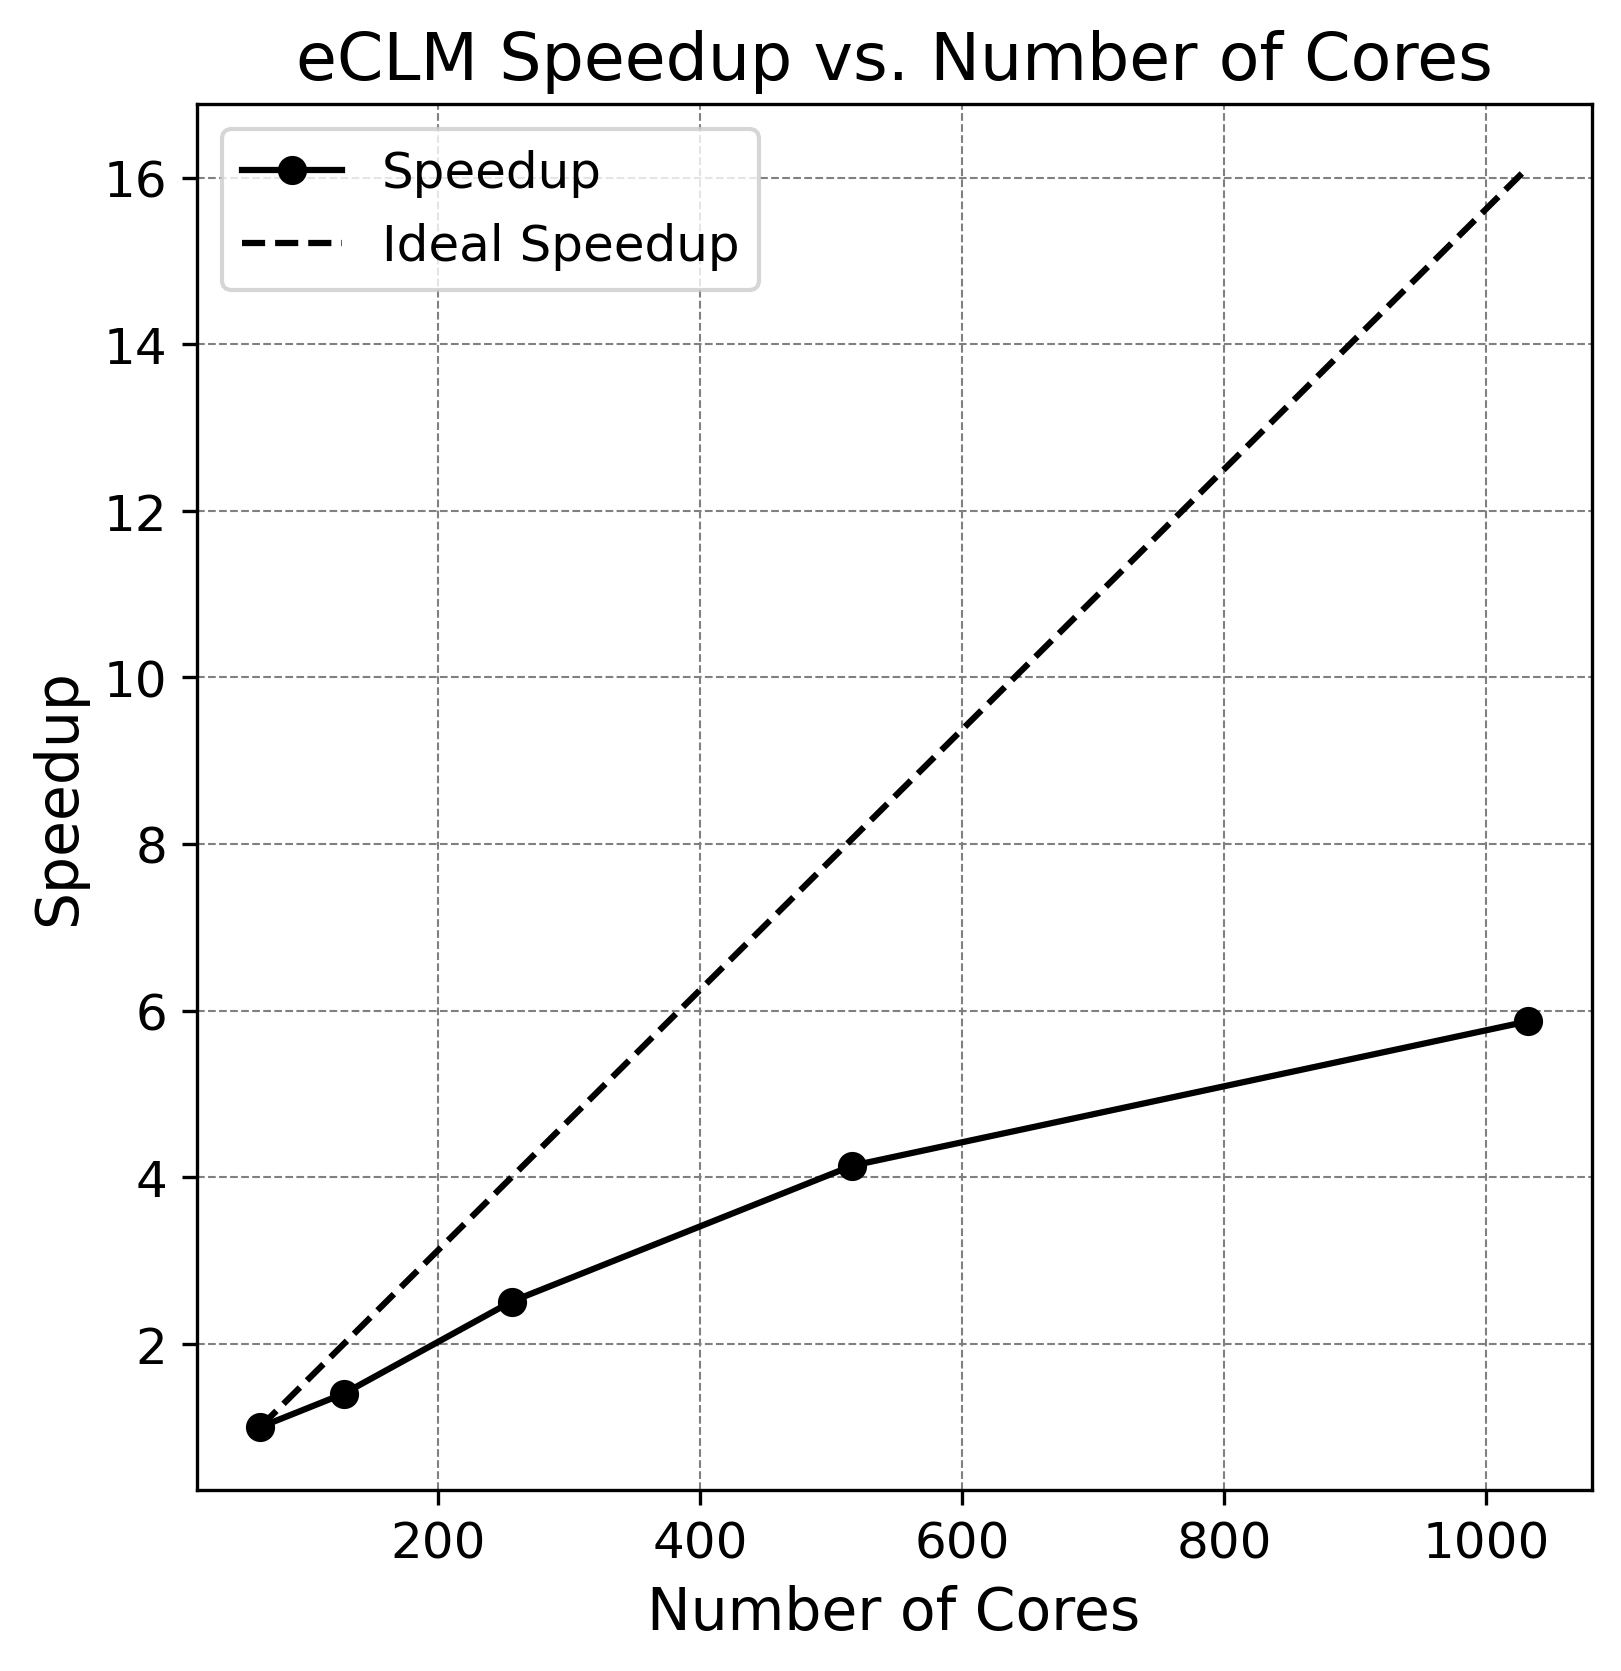
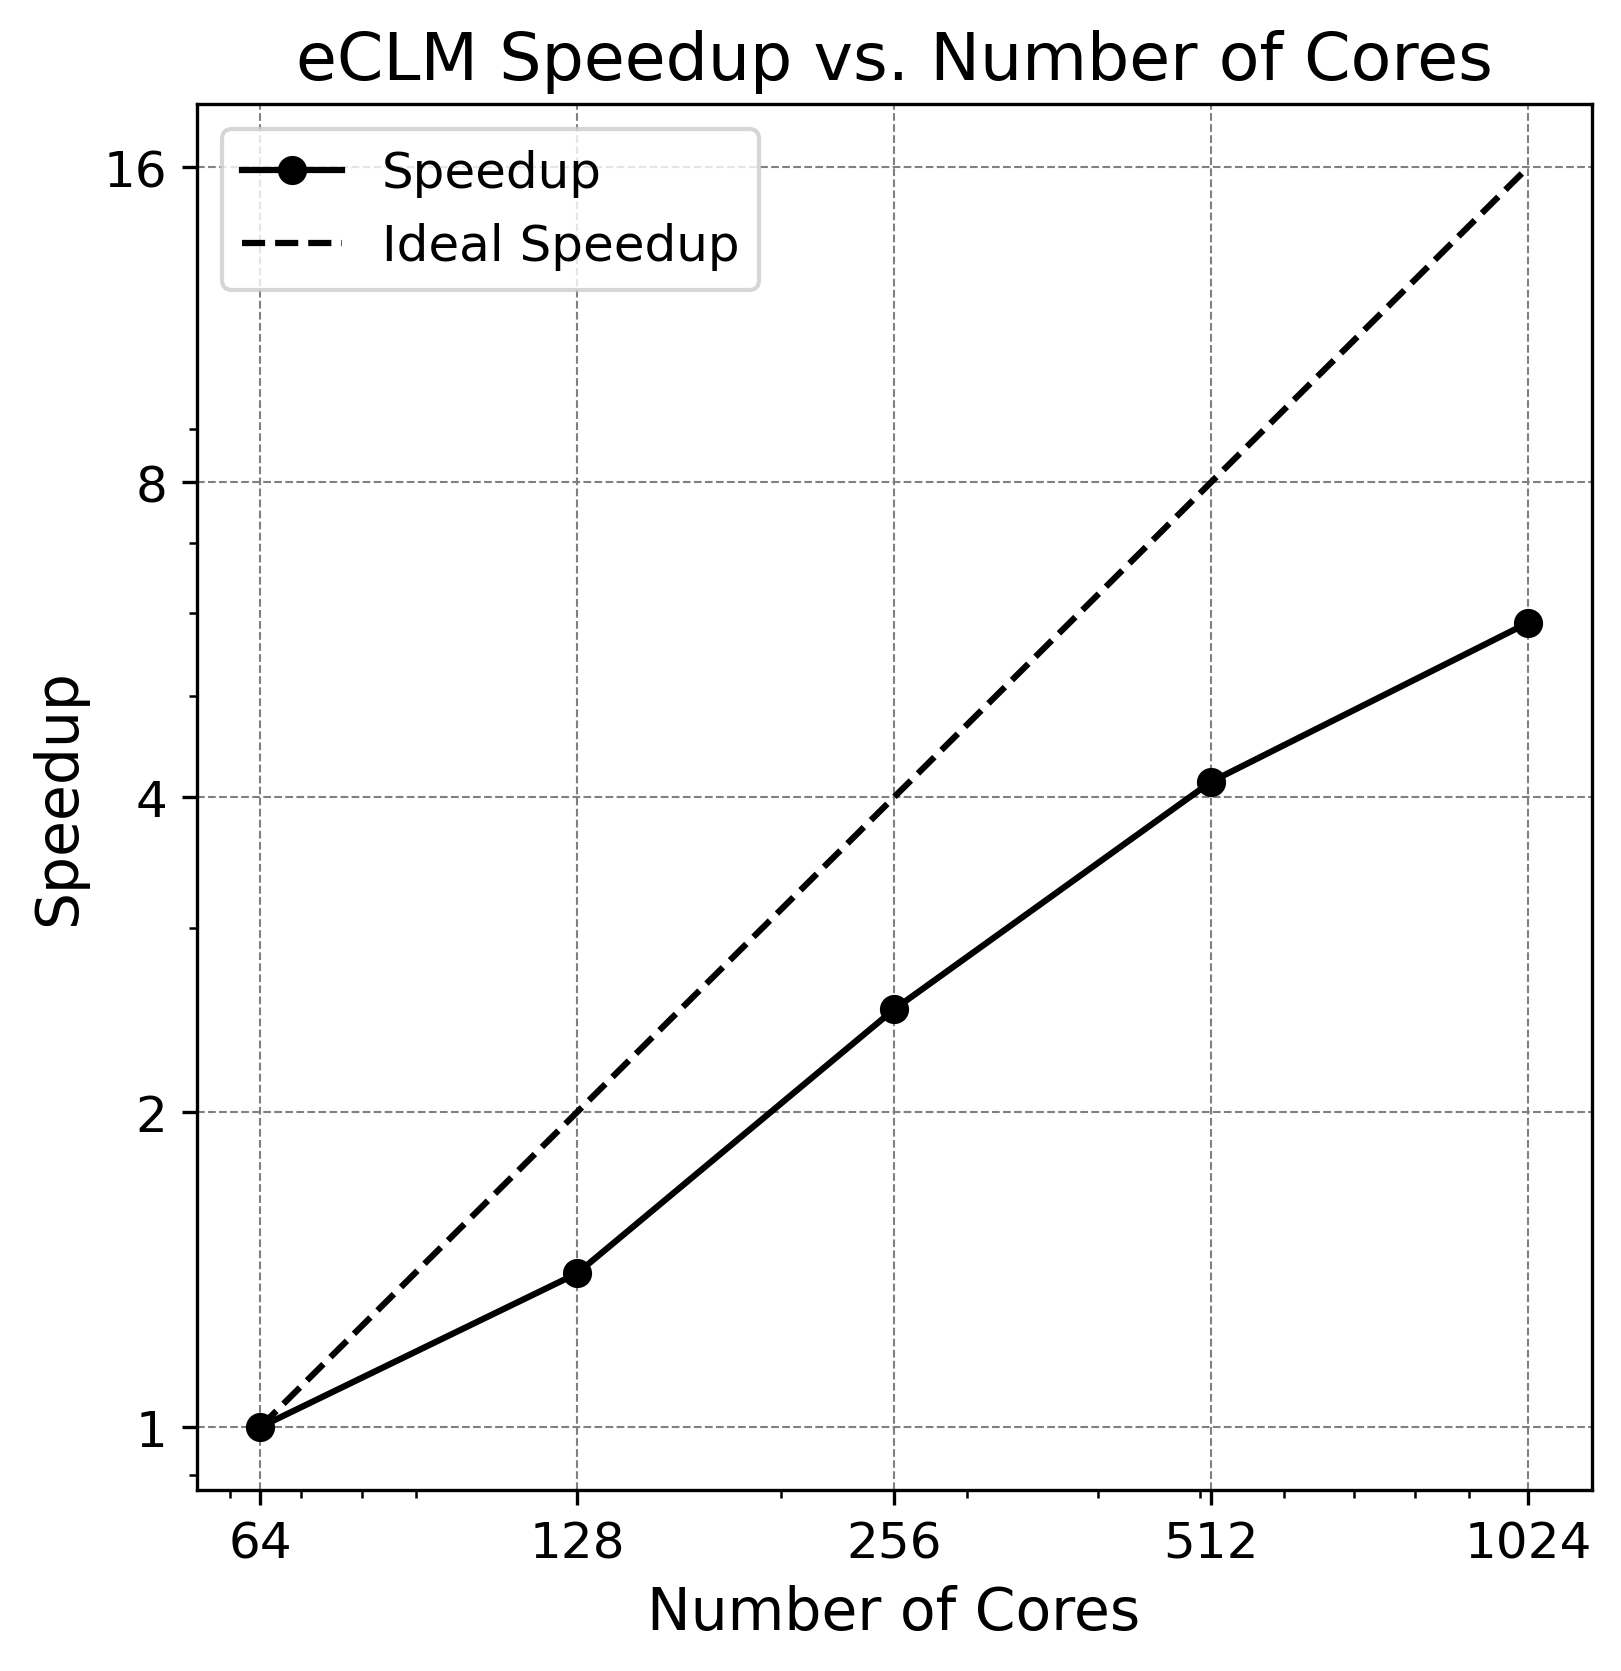
Update number of cores and modify format plot to log scale

diff --git a/Extract_total_time_Plot_strongScaling/Plot_strongScaling.py b/Extract_total_time_Plot_strongScaling/Plot_strongScaling.py
@@ -36,16 +36,20 @@ plt.plot(num_cores, speedup, "o-", label="Speedup", color="black", markersize=6)
 # Plot ideal speedup (dashed line) also in black
 plt.plot(num_cores, ideal_speedup, "--", label="Ideal Speedup", color="black")
 
+
 # Labels and title
 plt.xlabel("Number of Cores", fontsize=14)
 plt.ylabel("Speedup", fontsize=14)
 plt.title("eCLM Speedup vs. Number of Cores", fontsize=16)                ## Change title
 
 # Formatting
-plt.xticks(fontsize=12)
-plt.yticks(fontsize=12)
+plt.xscale("log")
+plt.yscale("log")
+plt.xticks(num_cores, [int(nc) for nc in num_cores],fontsize=12)
+plt.yticks(ideal_speedup, [int(isp) for isp in ideal_speedup],fontsize=12)
 plt.legend(fontsize=12)
 plt.grid(True, linestyle="--", linewidth=0.5, color="gray")
+
 
 # Save and show plot
 plt.savefig("eCLM_strong_scaling_plot.png", dpi=300, bbox_inches="tight")  ## Change figure name

diff --git a/Extract_total_time_Plot_strongScaling/Extract_times_eCLM_v2.py b/Extract_total_time_Plot_strongScaling/Extract_times_eCLM_v2.py
@@ -74,7 +74,7 @@ file3 = '../EU_CORDEX_4N/timing/model_timing.000'
 file4 = '../EU_CORDEX_8N/timing/model_timing.0000'
 
 files = [file0, file1, file2, file3, file4]              # List of files to process 
-cores = [64, 128, 256, 516, 1032]  # Manually provided number of cores for each file
+cores = [64, 128, 256, 512, 1024]  # Manually provided number of cores for each file
 patterns = ["CPL:INIT", "CPL:RUN_LOOP_BSTART", "CPL:RUN_LOOP", "CPL:TPROF_WRITE", "CPL:RUN_LOOP_BSTOP","CPL:FINAL", "sync3_tprof", ]   # Add more patterns as needed
 
 output_csv = "Output_times.csv"  # Output CSV filename
